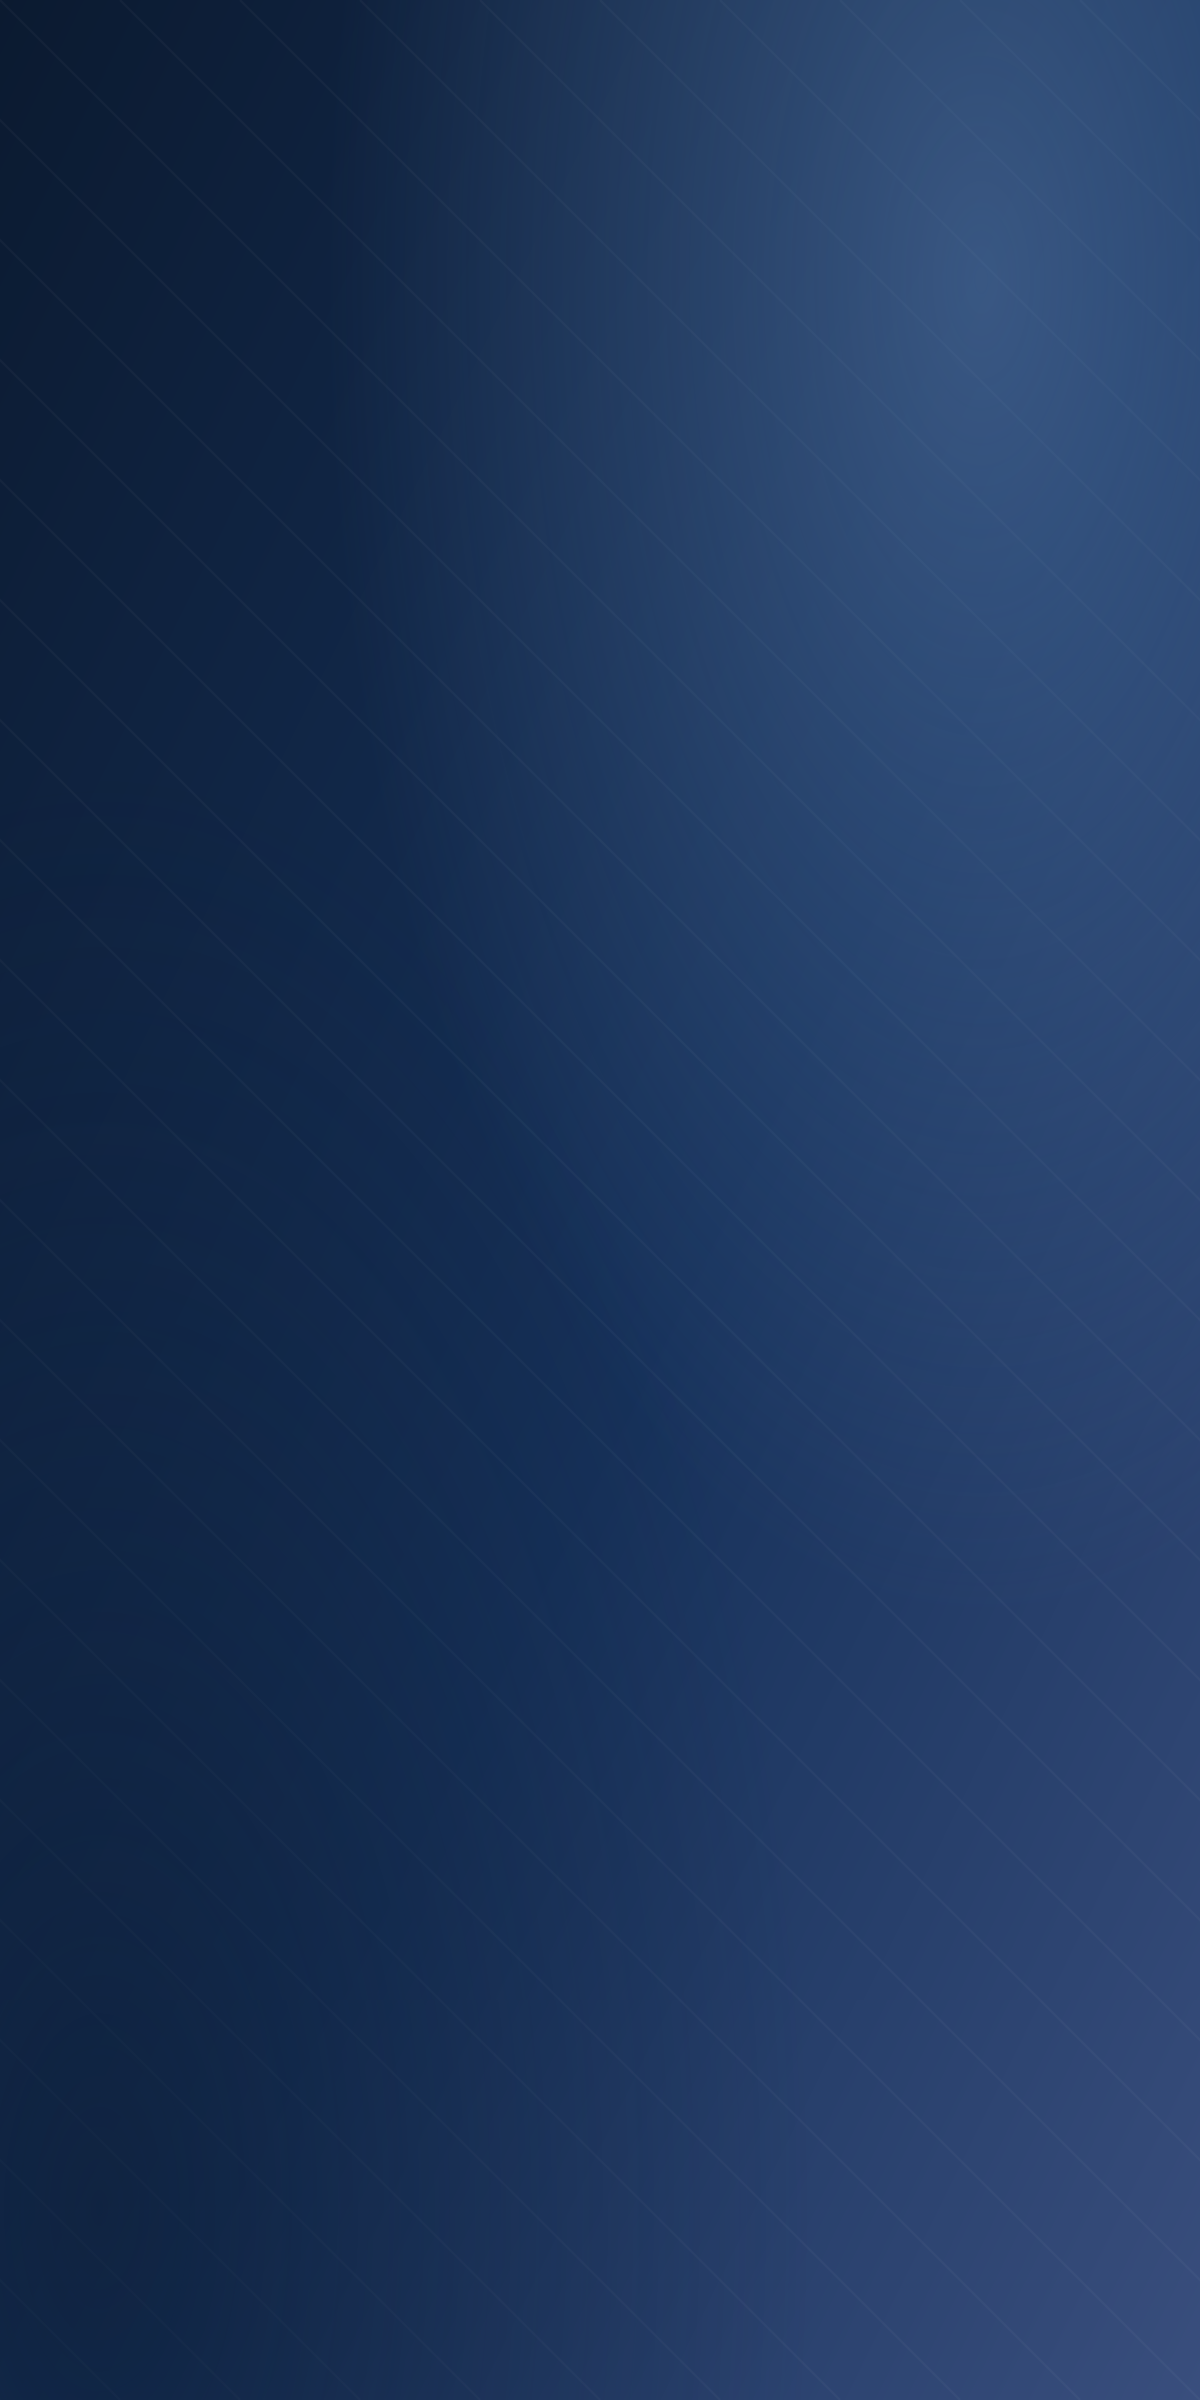
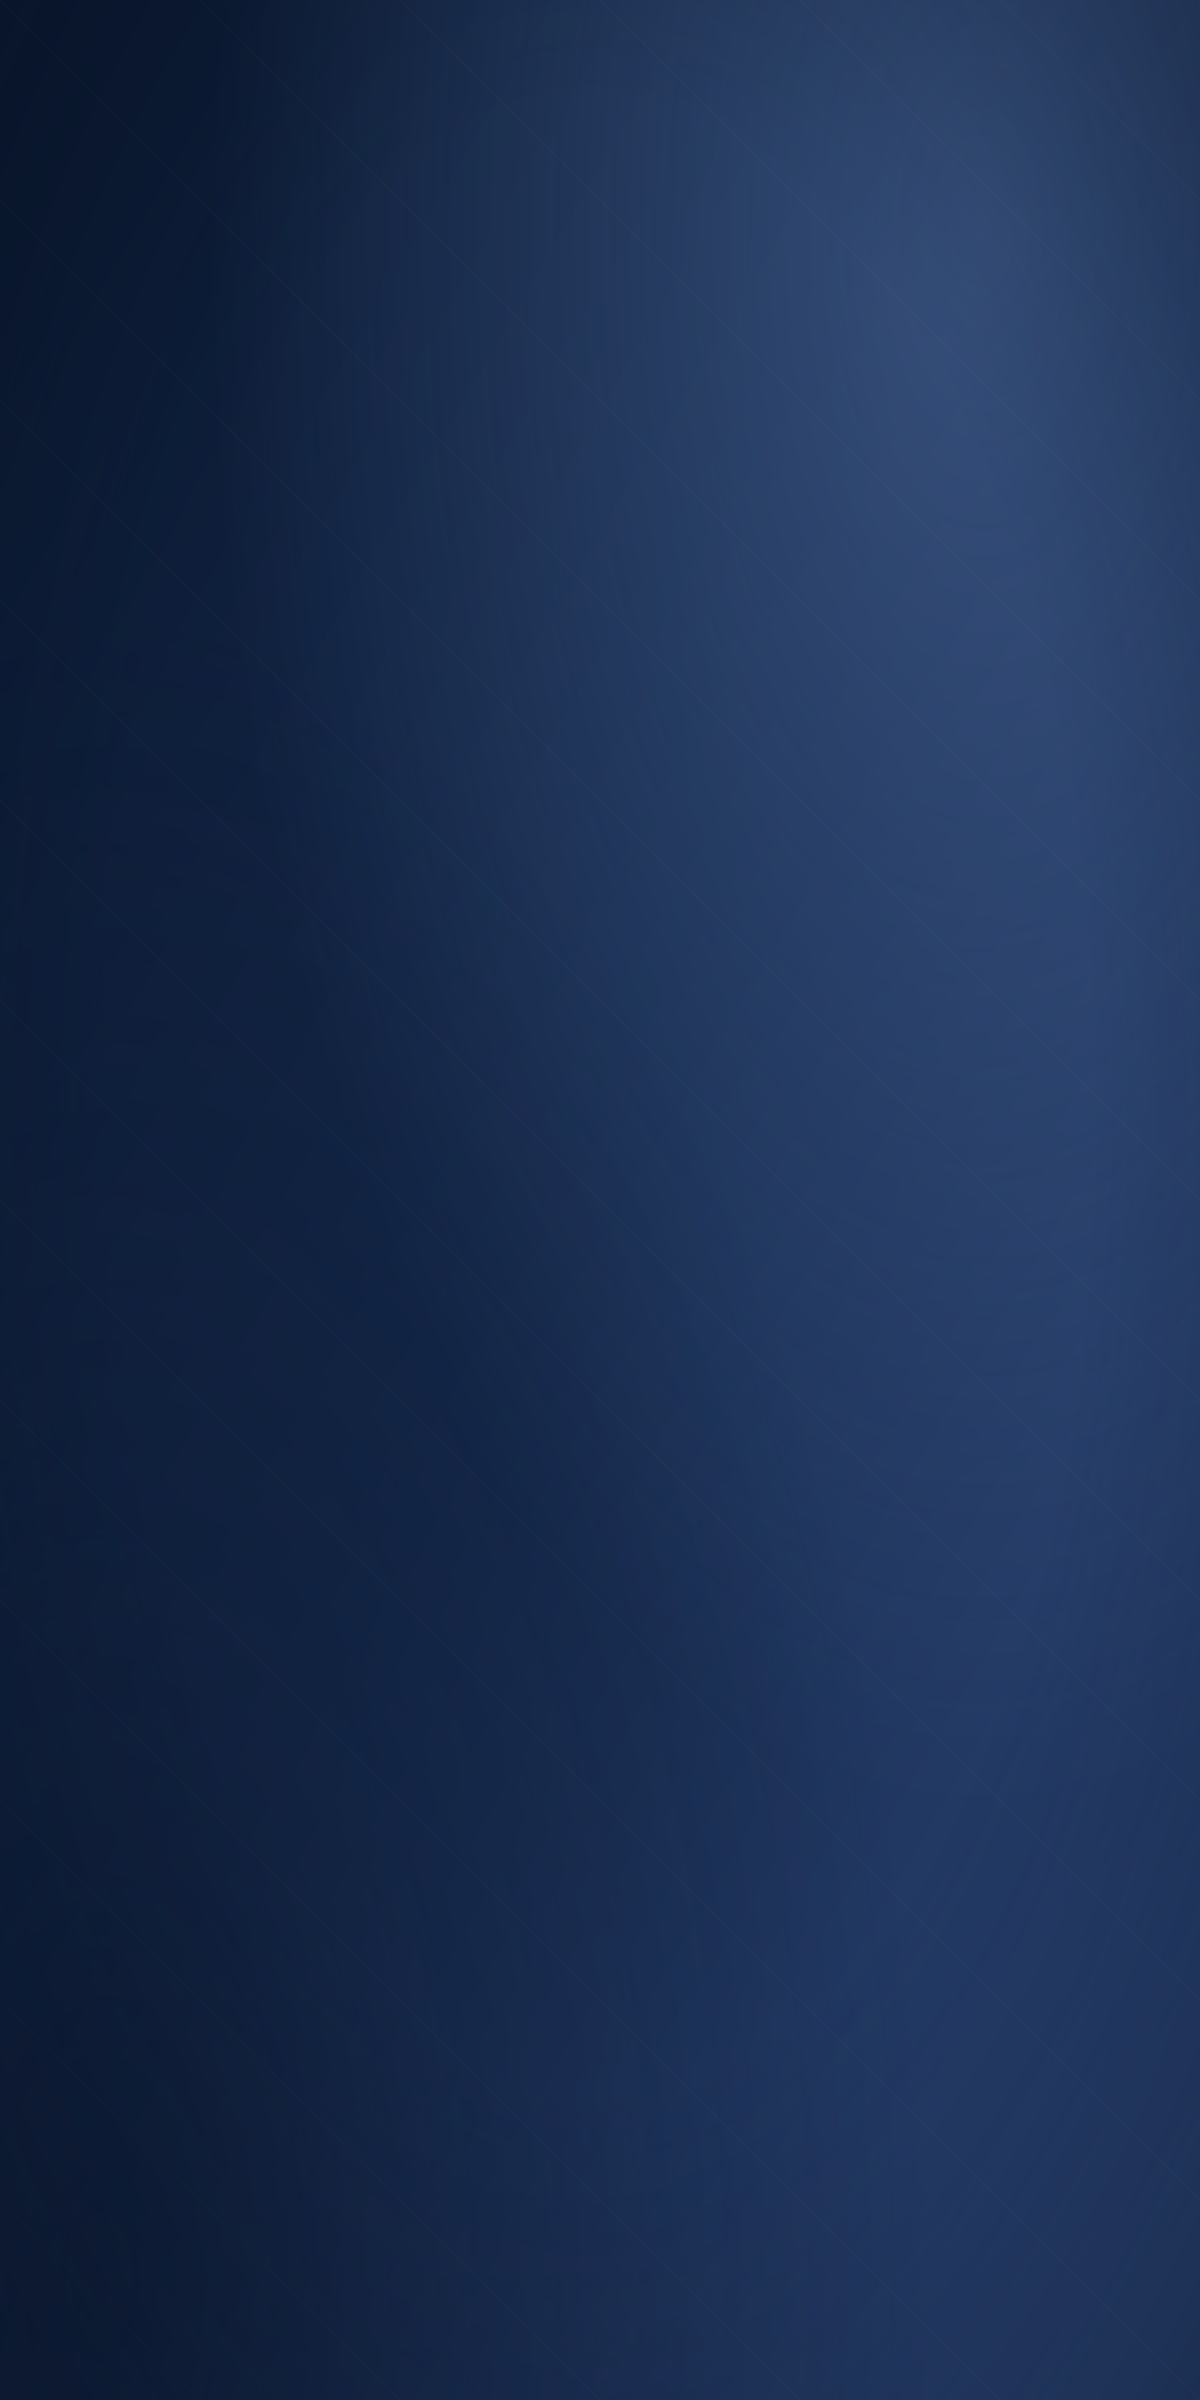
feat(login): safe-area inferior + difuminado pro animado + tarjeta más compacta
- Safe area: el contenido del login y el de desbloqueo respetan la barra de
  navegación del celular (useSafeAreaInsets en paddingBottom/posiciones), ya no se
  pierde por debajo.
- Difuminado: fondo regenerado más profesional (gradiente suave + glows + viñeta,
  líneas casi imperceptibles) + glow animado que se desplaza lento (gen-login-bg).
  Respaldo del anterior en assets/login-bg-classic.png (revertir: cp sobre login-bg.png).
- Tarjeta de login más baja (paddings/gap reducidos, botón 50, inputs 11) para dar
  aire a las animaciones.

tsc móvil 0. Todo JS/assets → sin rebuild.

Changed region(s): [[0.74, 0.7812, 1.0, 1.0], [0.8942, 0.0, 1.0, 0.1562], [0.6475, 0.9688, 0.7092, 1.0]]

diff --git a/src/screens/LoginScreen.tsx b/src/screens/LoginScreen.tsx
@@ -5,6 +5,7 @@ import {
   ImageBackground, ActivityIndicator, Animated, Dimensions, Pressable, Easing,
 } from 'react-native';
 import { Ionicons } from '@expo/vector-icons';
+import { useSafeAreaInsets } from 'react-native-safe-area-context';
 import {
   useFonts,
   Montserrat_400Regular, Montserrat_600SemiBold, Montserrat_700Bold, Montserrat_800ExtraBold,
@@ -24,6 +25,7 @@ const FF_XBOLD = 'Montserrat_800ExtraBold';
 
 export default function LoginScreen() {
   const { t } = useI18n();
+  const insets = useSafeAreaInsets();
   const { login, loginWithGoogle, signUp, resetPassword } = useAuth();
   const [fontsLoaded] = useFonts({ Montserrat_400Regular, Montserrat_600SemiBold, Montserrat_700Bold, Montserrat_800ExtraBold });
 
@@ -57,6 +59,7 @@ export default function LoginScreen() {
   const enterAnim = useRef(new Animated.Value(0)).current;
   const breathe = useRef(new Animated.Value(0)).current;
   const hintPulse = useRef(new Animated.Value(0)).current;
+  const glowAnim = useRef(new Animated.Value(0)).current; // difuminado "cambiante"
 
   useEffect(() => {
     Animated.loop(Animated.sequence([
@@ -67,7 +70,11 @@ export default function LoginScreen() {
       Animated.timing(hintPulse, { toValue: 1, duration: 1100, useNativeDriver: true }),
       Animated.timing(hintPulse, { toValue: 0, duration: 1100, useNativeDriver: true }),
     ])).start();
-  }, [breathe, hintPulse]);
+    Animated.loop(Animated.sequence([
+      Animated.timing(glowAnim, { toValue: 1, duration: 13000, easing: Easing.inOut(Easing.ease), useNativeDriver: true }),
+      Animated.timing(glowAnim, { toValue: 0, duration: 13000, easing: Easing.inOut(Easing.ease), useNativeDriver: true }),
+    ])).start();
+  }, [breathe, hintPulse, glowAnim]);
 
   const resetIdle = () => {
     if (idleTimer.current) clearTimeout(idleTimer.current);
@@ -149,13 +156,23 @@ export default function LoginScreen() {
   const introOpacity = enterAnim.interpolate({ inputRange: [0, 0.5], outputRange: [1, 0], extrapolate: 'clamp' });
   const cardOpacity = enterAnim.interpolate({ inputRange: [0.35, 1], outputRange: [0, 1], extrapolate: 'clamp' });
   const cardTranslateY = enterAnim.interpolate({ inputRange: [0, 1], outputRange: [28, 0] });
-  const bgScale = breathe.interpolate({ inputRange: [0, 1], outputRange: [1, 1.06] });
+  const bgScale = breathe.interpolate({ inputRange: [0, 1], outputRange: [1, 1.05] });
   const hintOpacity = hintPulse.interpolate({ inputRange: [0, 1], outputRange: [0.45, 1] });
+  const glowX = glowAnim.interpolate({ inputRange: [0, 1], outputRange: [-40, 70] });
+  const glowY = glowAnim.interpolate({ inputRange: [0, 1], outputRange: [-30, 80] });
+  const glowOpacity = glowAnim.interpolate({ inputRange: [0, 0.5, 1], outputRange: [0.35, 0.8, 0.35] });
 
-  // Fondo siempre presente (también mientras cargan las fuentes).
+  // Fondo siempre presente (también mientras cargan las fuentes) + glow que se
+  // desplaza lento (difuminado "cambiante", sin deps nativas).
   const Background = (
     <Animated.View style={[StyleSheet.absoluteFill, { transform: [{ scale: bgScale }] }]}>
-      <ImageBackground source={require('../../assets/login-bg.png')} style={styles.flex} resizeMode="cover" />
+      <ImageBackground source={require('../../assets/login-bg.png')} style={styles.flex} resizeMode="cover">
+        <Animated.Image
+          source={require('../../assets/login-glow.png')}
+          resizeMode="contain"
+          style={[styles.glow, { opacity: glowOpacity, transform: [{ translateX: glowX }, { translateY: glowY }] }]}
+        />
+      </ImageBackground>
     </Animated.View>
   );
 
@@ -169,7 +186,7 @@ export default function LoginScreen() {
 
       <WaterRipples onInteract={resetIdle}>
       <KeyboardAvoidingView style={styles.flex} behavior={Platform.OS === 'ios' ? 'padding' : undefined}>
-        <ScrollView contentContainerStyle={styles.scroll} keyboardShouldPersistTaps="handled" scrollEnabled={entered}>
+        <ScrollView contentContainerStyle={[styles.scroll, { paddingBottom: 24 + insets.bottom, paddingTop: insets.top + SCREEN_H * 0.05 }]} keyboardShouldPersistTaps="handled" scrollEnabled={entered}>
 
           <Animated.View style={[styles.logoWrap, { transform: [{ translateY: logoTranslateY }, { scale: logoScale }] }]}>
             <Image source={require('../../assets/logo-login.png')} style={styles.logo} resizeMode="contain" />
@@ -415,13 +432,15 @@ const styles = StyleSheet.create({
     fontFamily: FF_SEMI, fontSize: 12, color: Colors.white, letterSpacing: 2, textTransform: 'uppercase',
   },
 
+  glow: { position: 'absolute', top: -120, left: -60, width: 700, height: 700 },
+
   // Tarjeta translúcida compacta
   card: {
     backgroundColor: CARD_BG,
     borderRadius: Radius.lg,
-    paddingHorizontal: 20, paddingTop: 18, paddingBottom: 18,
+    paddingHorizontal: 20, paddingTop: 14, paddingBottom: 14,
     marginTop: -10,
-    gap: 12,
+    gap: 9,
     borderWidth: 1, borderColor: 'rgba(255,255,255,0.6)',
     ...Shadow.card, shadowOpacity: 0.35, shadowRadius: 24, elevation: 12,
   },
@@ -429,7 +448,7 @@ const styles = StyleSheet.create({
   googleBtn: {
     flexDirection: 'row', alignItems: 'center', justifyContent: 'center', gap: 10,
     borderWidth: 1.5, borderColor: Colors.border, borderRadius: 24,
-    paddingVertical: 13, backgroundColor: Colors.white,
+    paddingVertical: 11, backgroundColor: Colors.white,
   },
   googleBtnText: { fontFamily: FF_BOLD, fontSize: 14, color: Colors.textPrimary },
   createBtn: { alignItems: 'center', paddingVertical: 2 },
@@ -448,7 +467,7 @@ const styles = StyleSheet.create({
     paddingHorizontal: 18, backgroundColor: Colors.white,
   },
   fieldBoxFocused: { borderColor: Colors.primary },
-  fieldInput: { flex: 1, paddingVertical: 13, fontSize: 14, color: Colors.textPrimary, fontFamily: FF_REG },
+  fieldInput: { flex: 1, paddingVertical: 11, fontSize: 14, color: Colors.textPrimary, fontFamily: FF_REG },
 
   recentRow: { flexDirection: 'row', flexWrap: 'wrap', gap: 6, marginTop: -4 },
   recentChip: {
@@ -467,7 +486,7 @@ const styles = StyleSheet.create({
     ...Shadow.card, shadowColor: Colors.navy, shadowOpacity: 0.4, shadowRadius: 12, shadowOffset: { width: 0, height: 6 }, elevation: 8,
   },
   btnWrapDisabled: { opacity: 0.5 },
-  btnBg: { minHeight: 56, alignItems: 'center', justifyContent: 'center' },
+  btnBg: { minHeight: 50, alignItems: 'center', justifyContent: 'center' },
   btnBgImg: { borderRadius: 26 },
   btnContent: { flexDirection: 'row', alignItems: 'center', gap: 10 },
   btnText: { fontFamily: FF_XBOLD, color: Colors.white, fontSize: 15, letterSpacing: 2.5 },

diff --git a/src/components/BiometricLockScreen.tsx b/src/components/BiometricLockScreen.tsx
@@ -1,5 +1,6 @@
 import React, { useEffect, useRef, useState } from 'react';
 import { View, Text, StyleSheet, Image, ImageBackground, Animated, Easing, Pressable, TouchableOpacity } from 'react-native';
+import { useSafeAreaInsets } from 'react-native-safe-area-context';
 import {
   useFonts, Montserrat_400Regular, Montserrat_600SemiBold, Montserrat_700Bold, Montserrat_800ExtraBold,
 } from '@expo-google-fonts/montserrat';
@@ -17,6 +18,7 @@ const FF_BOLD = 'Montserrat_700Bold';
  */
 export default function BiometricLockScreen() {
   const { unlockBiometric, logout, currentUser } = useAuth();
+  const insets = useSafeAreaInsets();
   const [fontsLoaded] = useFonts({ Montserrat_400Regular, Montserrat_600SemiBold, Montserrat_700Bold, Montserrat_800ExtraBold });
   const [busy, setBusy] = useState(false);
   const triedRef = useRef(false);
@@ -66,11 +68,11 @@ export default function BiometricLockScreen() {
           )}
         </Pressable>
 
-        <Animated.Text style={[styles.hint, fontsLoaded && { fontFamily: FF_SEMI }, { opacity: hintOpacity }]}>
+        <Animated.Text style={[styles.hint, fontsLoaded && { fontFamily: FF_SEMI }, { opacity: hintOpacity, bottom: 96 + insets.bottom }]}>
           Toca para desbloquear
         </Animated.Text>
 
-        <TouchableOpacity style={styles.otherBtn} onPress={() => logout()}>
+        <TouchableOpacity style={[styles.otherBtn, { bottom: 52 + insets.bottom }]} onPress={() => logout()}>
           <Text style={[styles.otherText, fontsLoaded && { fontFamily: FF_SEMI }]}>Usar otra cuenta</Text>
         </TouchableOpacity>
       </WaterRipples>
